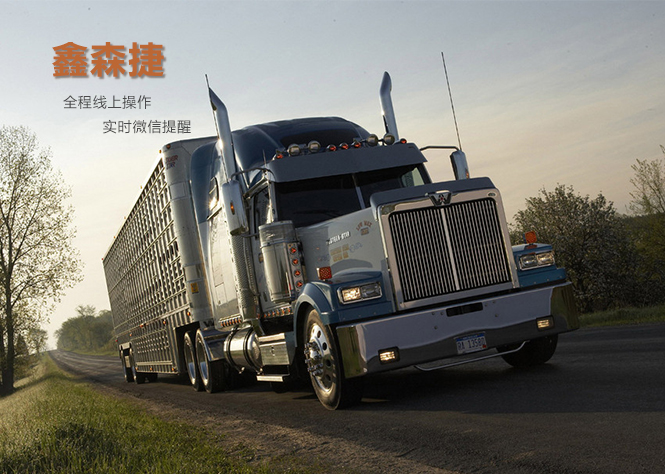
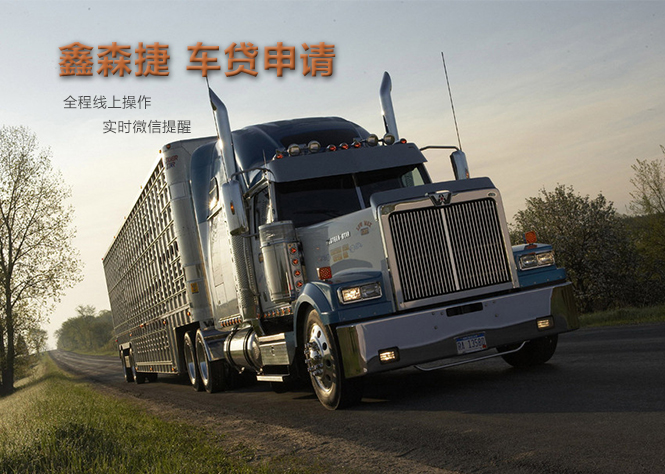
添加图片

Changed region(s): [[0.0602, 0.0886, 0.5113, 0.1772]]

diff --git a/trucks.html b/trucks.html
@@ -61,7 +61,7 @@
 				<img alt="轮播图" src="imgs/重卡.jpg" data-holder-rendered="true">
 			</div>
 			<div class="item">
-				<img alt="轮播图" src="imgs/重卡.jpg" data-holder-rendered="true">
+				<img alt="轮播图" src="imgs/重卡_一站式.jpg" data-holder-rendered="true">
 			</div>
 			<div class="item active">
 				<img alt="轮播图" src="imgs/重卡.jpg" data-holder-rendered="true">
